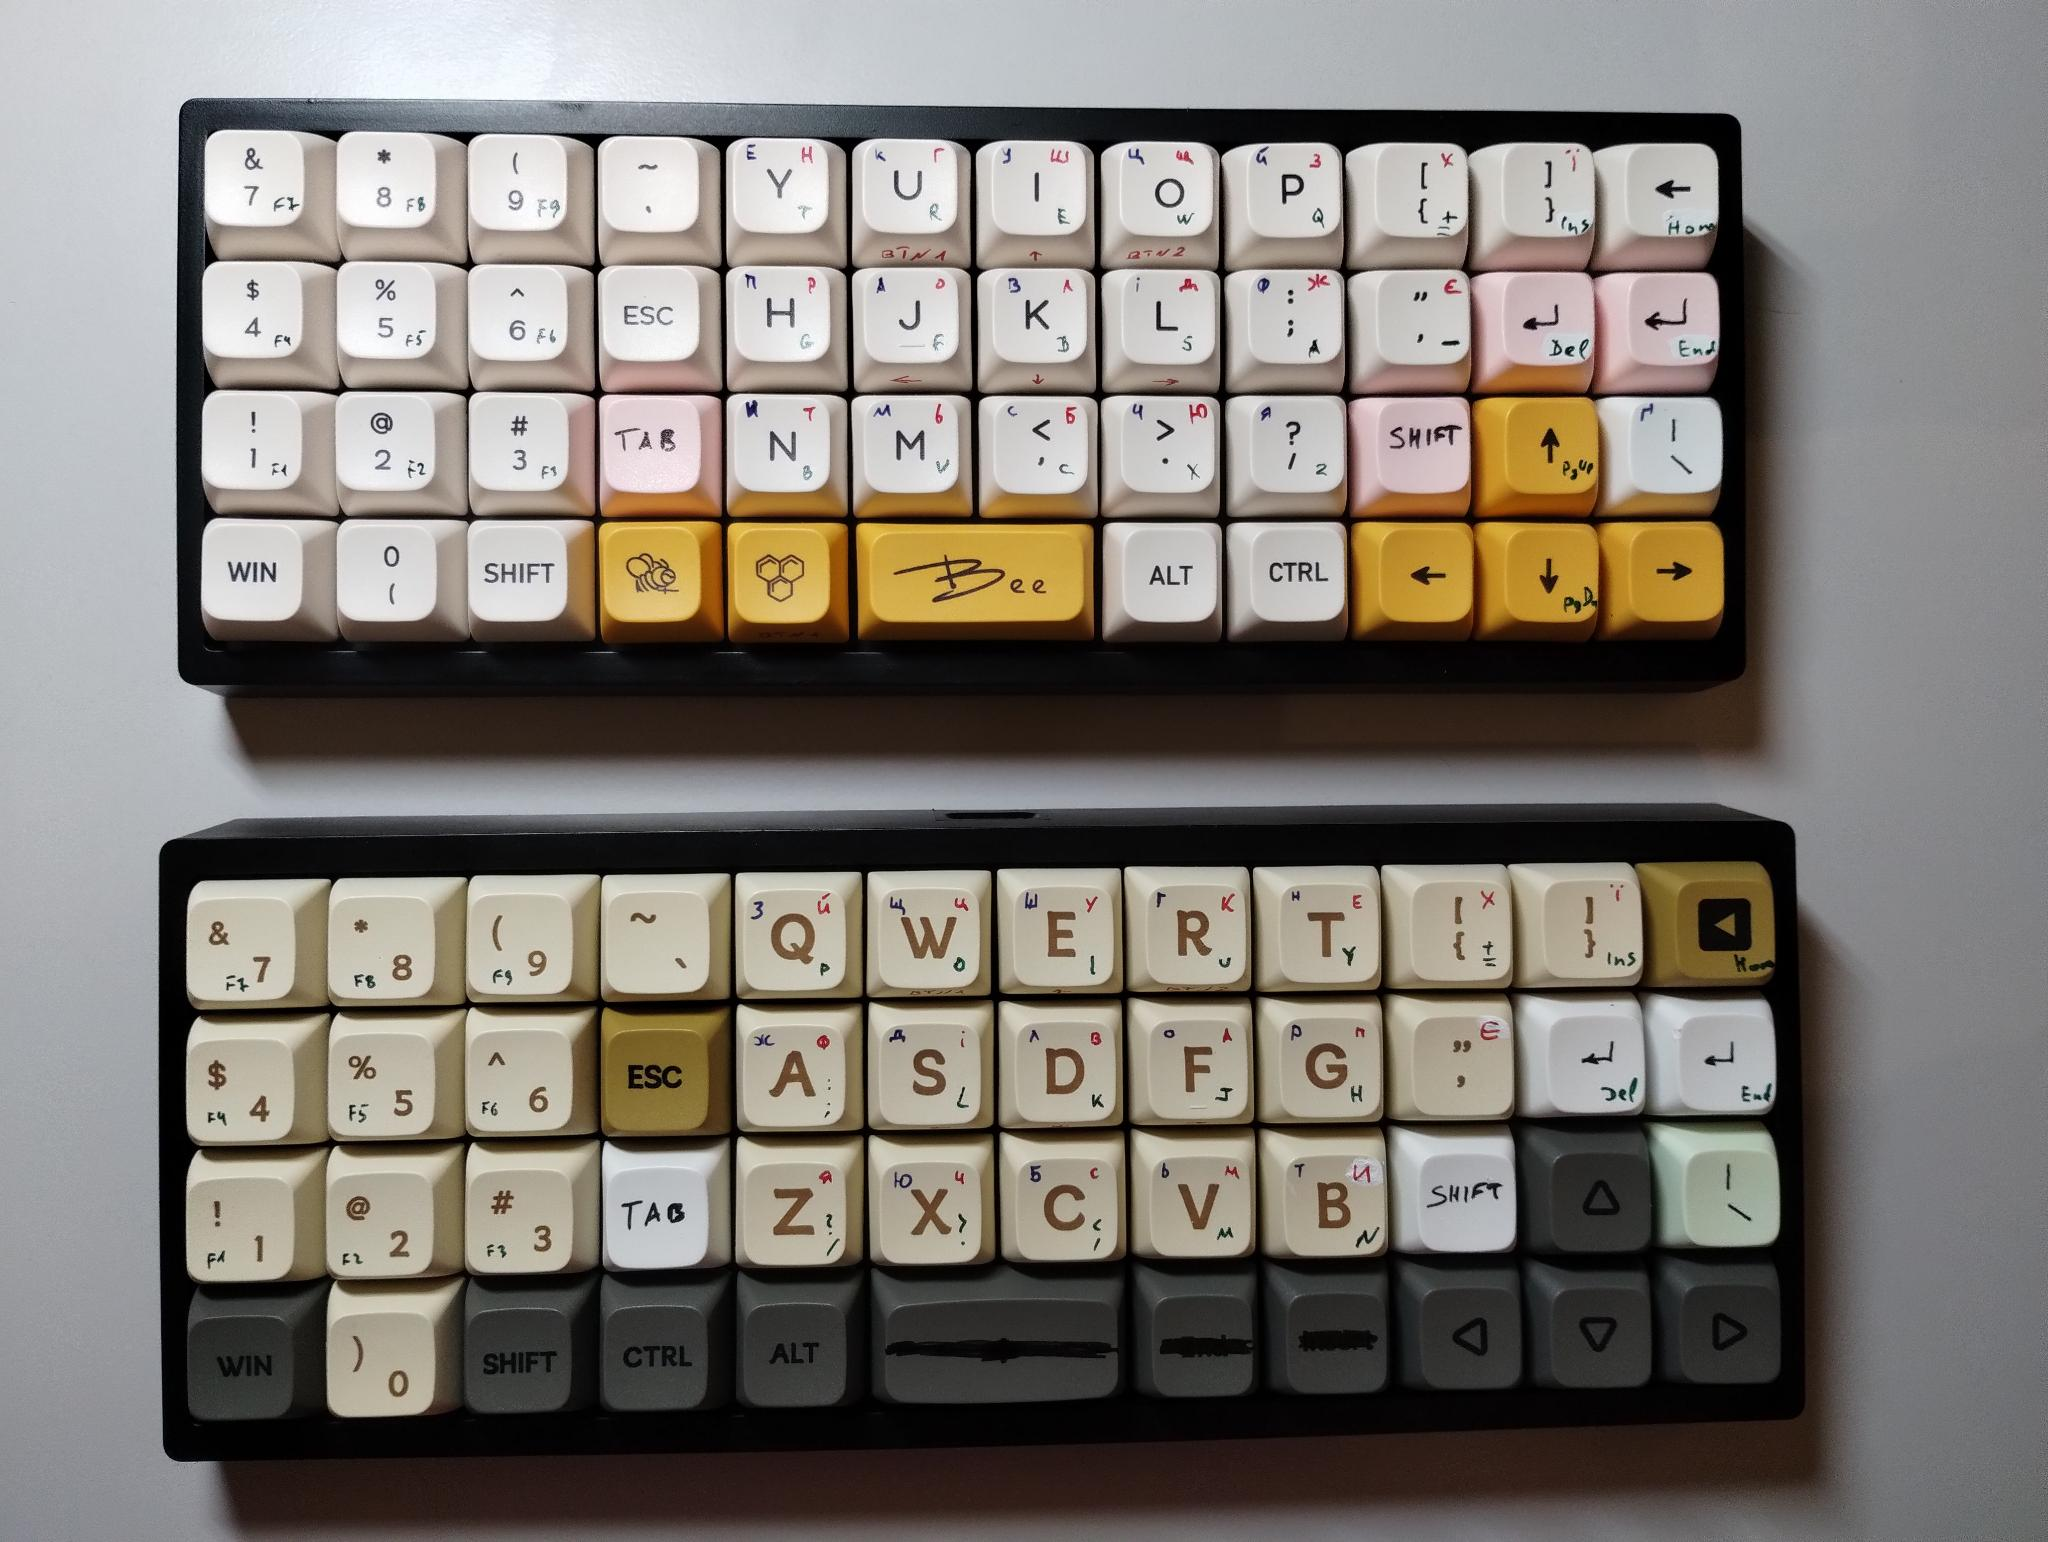
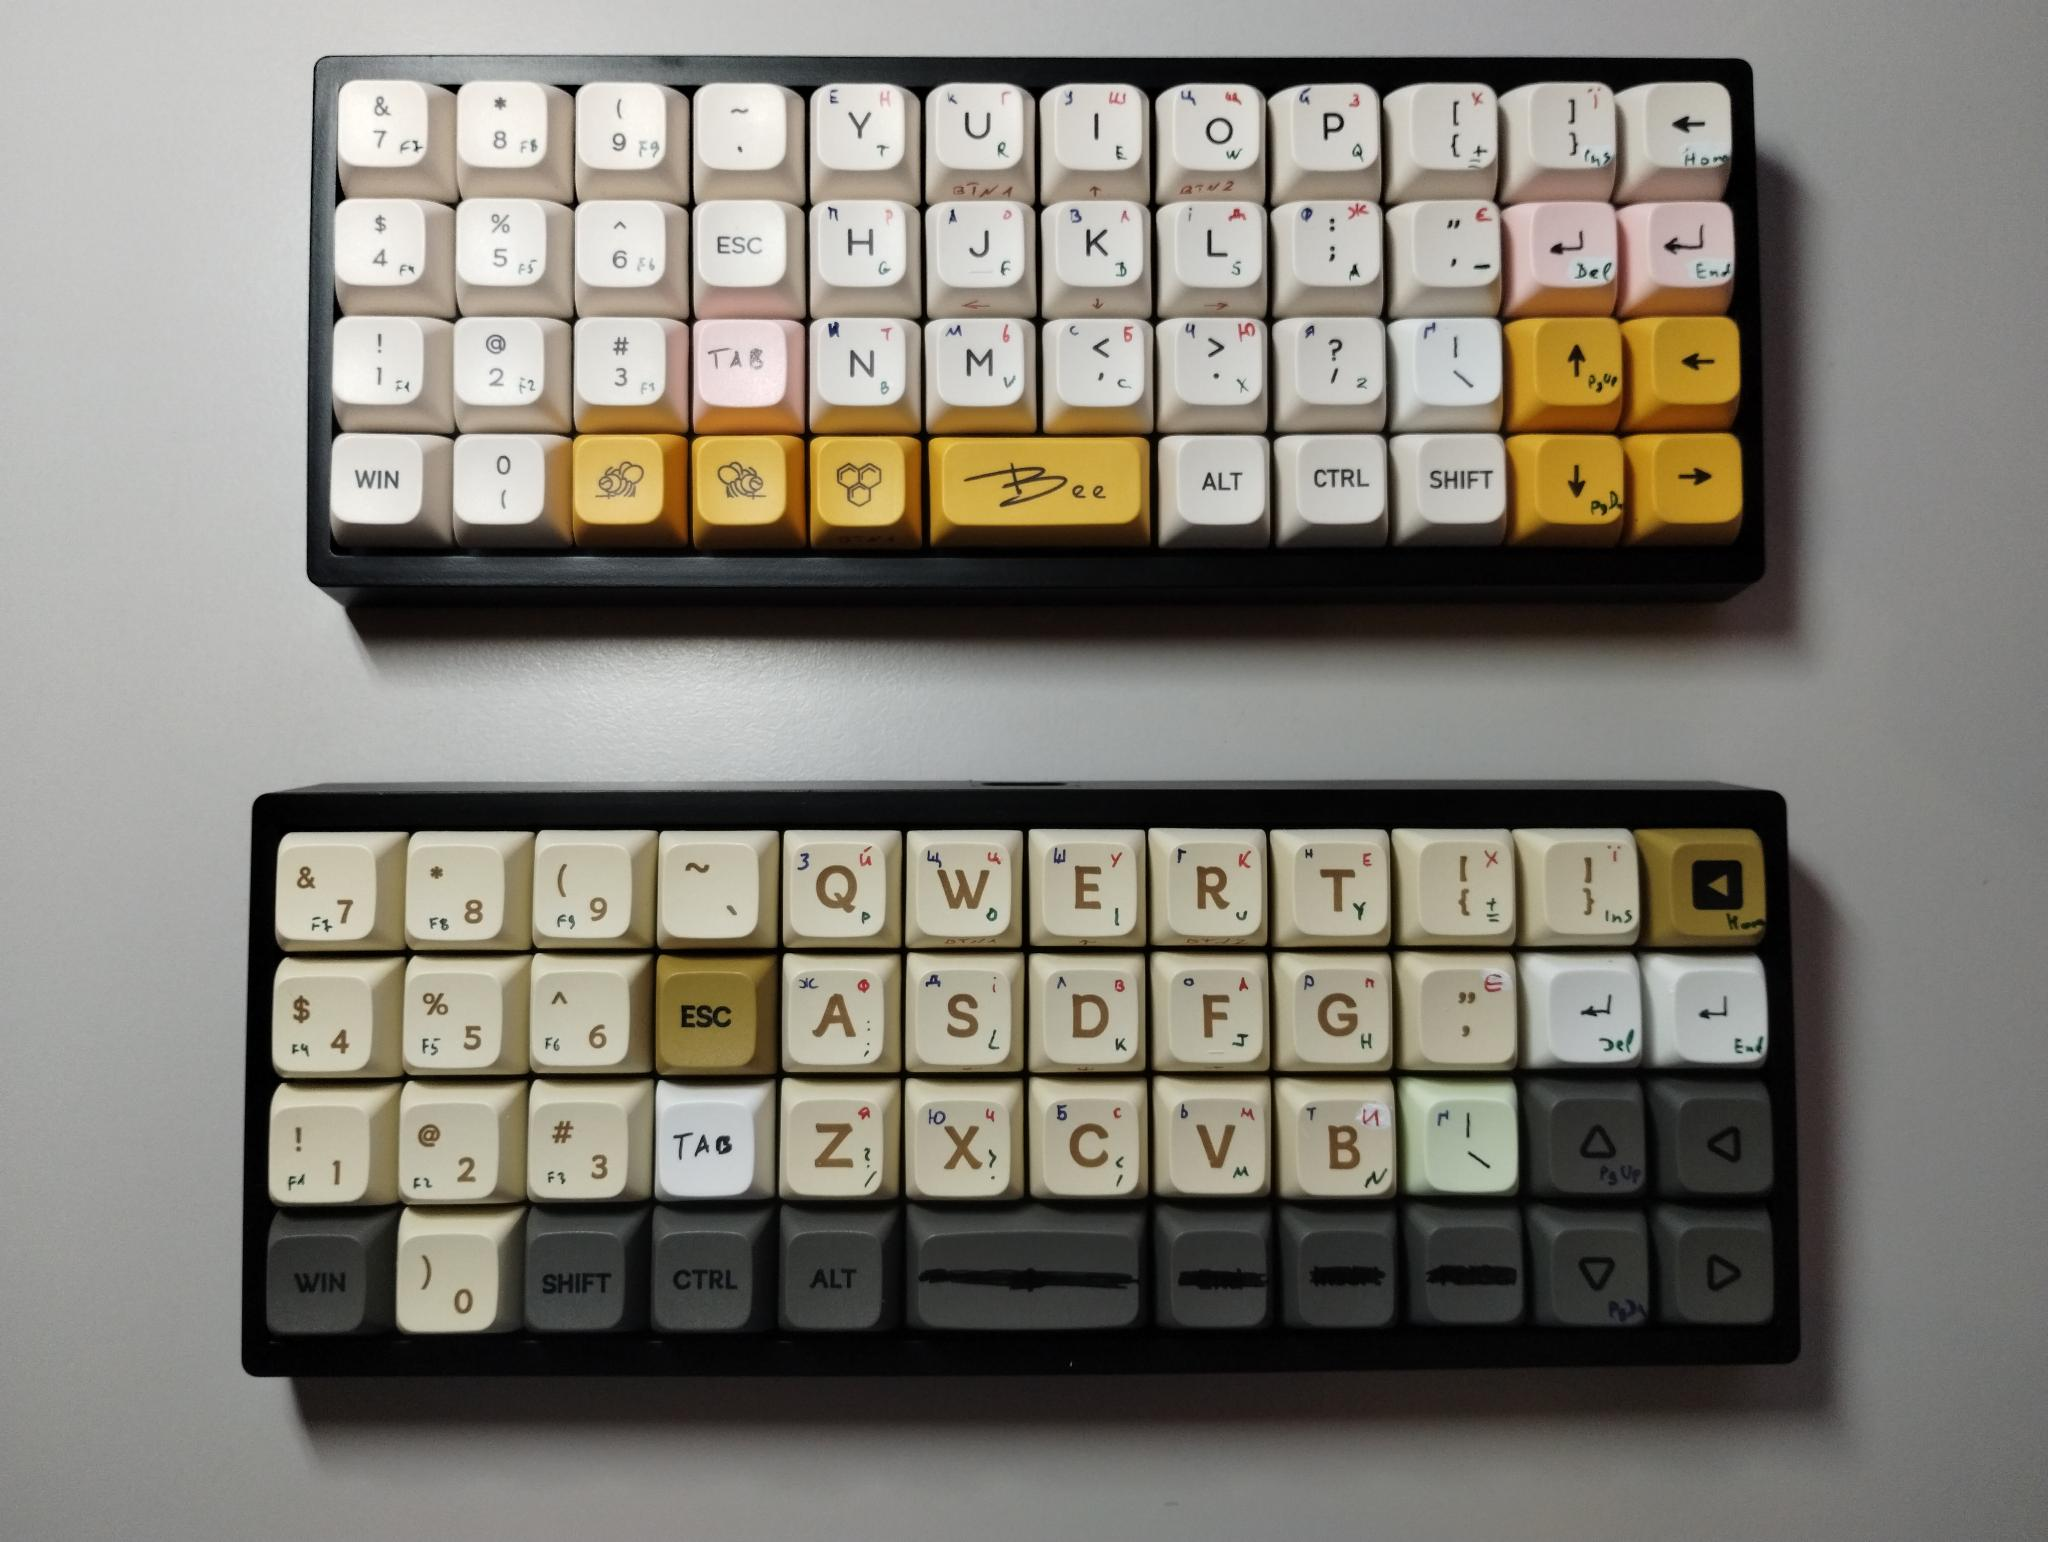
new picture for the longer space bar

diff --git a/ONE_HANDED_CSTC40.md b/ONE_HANDED_CSTC40.md
@@ -13,7 +13,7 @@ KPrepublic](https://kprepublic.com/products/cstc40-40-rgb-40-hot-swappable-mecha
 The layout is still a work in progress, so sugestions are very much
 welcome.
 
-The three keys in the bottom row, spannig the double-size space bar
+The four keys in the bottom row, spannig the double-size space bar
 (yellow and grey on the photo below) are all acting as a space bar and
 a layer switcher. You hold the space bar and tap the keys from the
 mirrored half (on the right-hand keyboard on the photo, Space+L would
